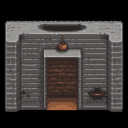
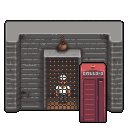
refined pixelart

diff --git a/src/cutscene.rs b/src/cutscene.rs
@@ -71,35 +71,17 @@ fn setup_cutscene(
                     ..default()
                 },
                 background_color: Color::BLACK.into(),
-
                 ..default()
             },
             Cutscene,
-            Name::new("cutscene node"),
+            Name::new("cutscene dialog container"),
         ))
         .with_children(|parent| {
             parent.spawn((
                 NodeBundle {
                     style: Style {
-                        width: Val::Percent(100.0),
-                        height: Val::Percent(100.0),
-                        margin: UiRect::top(Val::VMin(5.)),
-                        position_type: PositionType::Absolute,
-                        left: Val::Px(20.0),
-                        ..default()
-                    },
-                    background_color: Color::WHITE.into(),
-                    ..default()
-                },
-                UiImage::new(cutscene_assets.phone_call_1.clone()),
-            ));
-
-            parent.spawn((
-                NodeBundle {
-                    style: Style {
                         width: Val::Px(320.0),
                         height: Val::Px(320.0),
-                        margin: UiRect::top(Val::VMin(5.)),
                         position_type: PositionType::Absolute,
                         left: Val::Px(20.0),
                         ..default()
@@ -117,7 +99,6 @@ fn setup_cutscene(
                     style: Style {
                         width: Val::Px(320.0),
                         height: Val::Px(320.0),
-                        margin: UiRect::top(Val::VMin(5.)),
                         position_type: PositionType::Absolute,
                         right: Val::Px(20.0),
                         ..default()
@@ -134,7 +115,8 @@ fn setup_cutscene(
                 .spawn((
                     NodeBundle {
                         style: Style {
-                            margin: UiRect::bottom(Val::Px(30.)),
+                            position_type: PositionType::Absolute,
+                            margin: UiRect::bottom(Val::Percent(5.)),
                             ..default()
                         },
                         ..default()
@@ -144,7 +126,7 @@ fn setup_cutscene(
                 .with_children(|parent| {
                     parent.spawn((
                         TextBundle::from_section(
-                            "ui wave text",
+                            "cutscene dialog text",
                             TextStyle {
                                 font: font_assets.pixeloid_mono.clone(),
                                 font_size: 30.0,
@@ -163,7 +145,7 @@ fn setup_cutscene(
                     flex_direction: FlexDirection::Row,
                     align_items: AlignItems::Center,
                     justify_content: JustifyContent::SpaceAround,
-                    top: Val::Px(20.),
+                    top: Val::Percent(5.),
                     width: Val::Percent(100.),
                     position_type: PositionType::Absolute,
                     ..default()
@@ -173,19 +155,54 @@ fn setup_cutscene(
             },
             CutsceneDialogText,
             Cutscene,
-            Name::new("dialog title text"),
+            Name::new("cutscene title container"),
         ))
         .with_children(|parent| {
             parent.spawn((
                 TextBundle::from_section(
-                    "PRISON CPS 17 <<MICHOACAN>> MEXICO",
+                    "   PRISON CPS 17\n   <<MICHOACAN>>\nMEXICO, BUENAVISTA",
                     TextStyle {
                         font: font_assets.pixeloid_mono.clone(),
-                        font_size: 60.0,
+                        font_size: 40.0,
                         color: Color::WHITE,
                     },
                 ),
                 CutsceneTitleText,
+            ));
+        });
+
+    commands
+        .spawn((
+            NodeBundle {
+                style: Style {
+                    width: Val::Percent(100.0),
+                    height: Val::Percent(100.0),
+                    position_type: PositionType::Absolute,
+                    justify_content: JustifyContent::Center,
+                    align_items: AlignItems::Center,
+                    ..default()
+                },
+                // background_color: Color::BLACK.into(),
+                ..default()
+            },
+            Cutscene,
+            Name::new("cutscene image container"),
+        ))
+        .with_children(|parent| {
+            // bevy logo (image)
+            // A `NodeBundle` is used to display the logo the image as an `ImageBundle` can't automatically
+            // size itself with a child node present.
+            parent.spawn((
+                NodeBundle {
+                    style: Style {
+                        width: Val::Px(512.0),
+                        height: Val::Px(512.0),
+                        ..default()
+                    },
+                    background_color: Color::WHITE.into(),
+                    ..default()
+                },
+                UiImage::new(cutscene_assets.phone_call_1.clone()),
             ));
         });
 }
